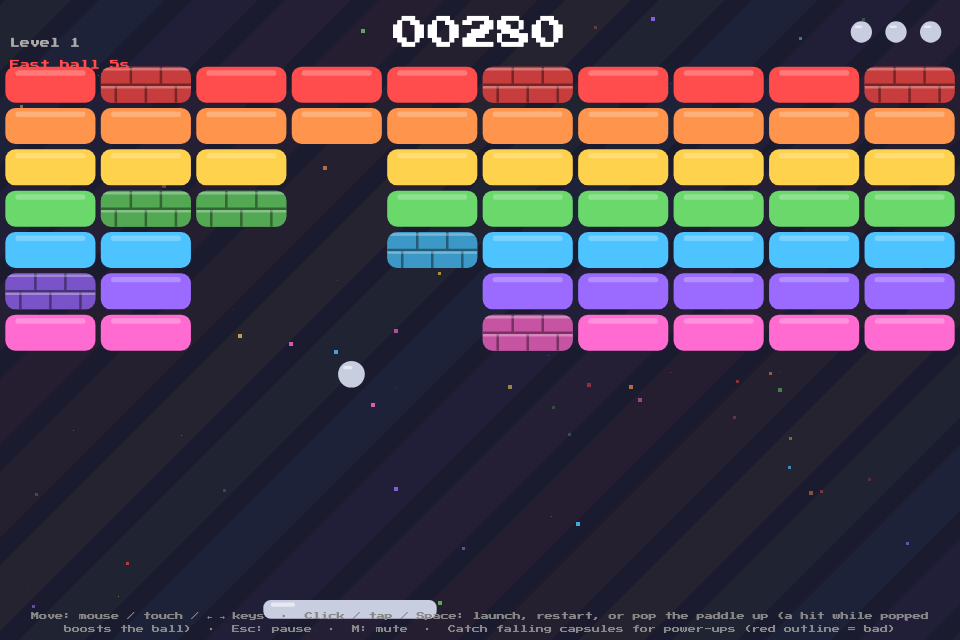
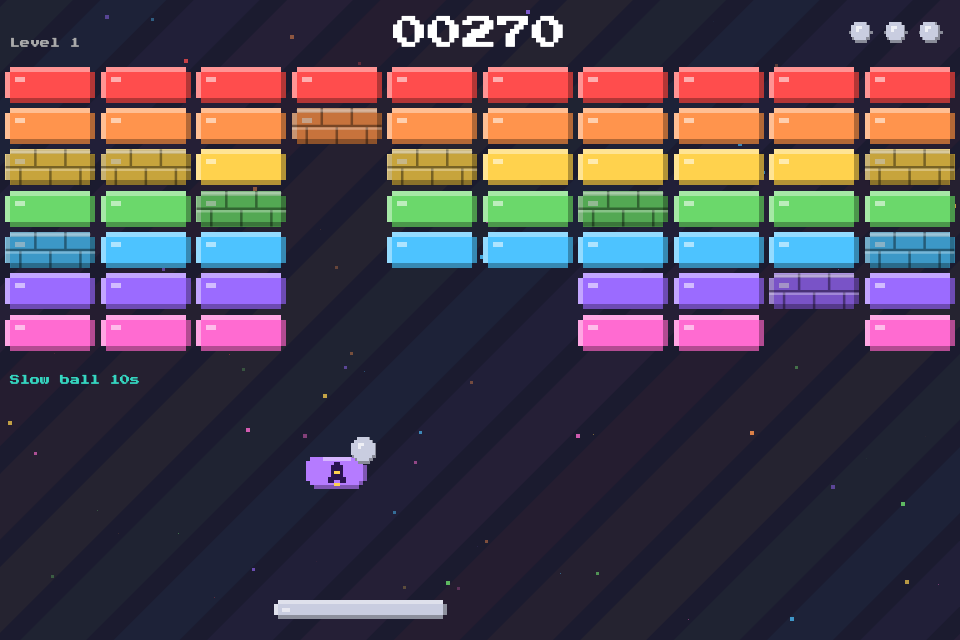
Draw bricks, paddle, pills and ball as 8-bit pixel shapes
Notched corners, hard pixel bevels and stepped discs replace the
anti-aliased rounded shapes. README screenshots regenerated.

diff --git a/src/main.js b/src/main.js
@@ -706,13 +706,15 @@ function drawIcon(icon, d, color) {
 
 function drawCapsule(d) {
   const p = POWERUPS[d.type];
-  ctx.beginPath(); ctx.roundRect(d.x - CAPSULE_W / 2, d.y - CAPSULE_H / 2, CAPSULE_W, CAPSULE_H, CAPSULE_H / 2);
-  if (p.bad) {
-    ctx.fillStyle = '#2a0f14'; ctx.fill();
-    ctx.lineWidth = 2; ctx.strokeStyle = p.color; ctx.stroke();
+  const cpx = Math.max(2, Math.round(CAPSULE_H / 9)), x = d.x - CAPSULE_W / 2, y = d.y - CAPSULE_H / 2;
+  if (p.bad) { // dark pill with a pixel outline
+    pixelPill(x, y, CAPSULE_W, CAPSULE_H, p.color, cpx);
+    pixelPill(x + cpx, y + cpx, CAPSULE_W - 2 * cpx, CAPSULE_H - 2 * cpx, '#2a0f14', cpx);
     drawIcon(p.icon, d, p.color);
   } else {
-    ctx.fillStyle = p.color; ctx.fill();
+    pixelPill(x, y, CAPSULE_W, CAPSULE_H, shade(p.color, -0.3), cpx); // dark rim, then the lit body on top
+    pixelPill(x, y, CAPSULE_W - cpx, CAPSULE_H - cpx, p.color, cpx);
+    ctx.fillStyle = shade(p.color, 0.45); ctx.fillRect(Math.round(x + CAPSULE_H / 2), Math.round(y), Math.round(CAPSULE_W - CAPSULE_H), cpx); // top highlight
     drawIcon(p.icon, d, p.iconColor || '#111');
   }
 }
@@ -744,11 +746,85 @@ function drawTitle() {
   if (titleT > landedAt && Math.floor(Date.now() / 500) % 2 === 0) text(START + ' to start', W / 2, H / 2 + size, Math.max(10, size * 0.28), '#ccc');
 }
 
+// --- 8-bit shapes: notched corners and a hard pixel bevel instead of anti-aliased curves ---
+function shade(hex, amt) { // amt > 0 mixes toward white, < 0 toward black
+  const n = parseInt(hex.slice(1), 16), t = amt < 0 ? 0 : 255, a = Math.abs(amt);
+  const c = [n >> 16, (n >> 8) & 255, n & 255].map(v => Math.round(v + (t - v) * a));
+  return `rgb(${c[0]},${c[1]},${c[2]})`;
+}
+
+// rectangle with the four corner pixels cut off (px = pixel size)
+function notchPath(x, y, w, h, px) {
+  ctx.beginPath();
+  ctx.moveTo(x + px, y); ctx.lineTo(x + w - px, y); ctx.lineTo(x + w - px, y + px); ctx.lineTo(x + w, y + px);
+  ctx.lineTo(x + w, y + h - px); ctx.lineTo(x + w - px, y + h - px); ctx.lineTo(x + w - px, y + h); ctx.lineTo(x + px, y + h);
+  ctx.lineTo(x + px, y + h - px); ctx.lineTo(x, y + h - px); ctx.lineTo(x, y + px); ctx.lineTo(x + px, y + px);
+  ctx.closePath();
+}
+
+// flat color body, light top/left edge, dark bottom/right edge, and a two-pixel glint
+function pixelBox(x, y, w, h, color, px) {
+  x = Math.round(x); y = Math.round(y); w = Math.round(w); h = Math.round(h);
+  ctx.fillStyle = color;
+  ctx.fillRect(x + px, y, w - 2 * px, h);
+  ctx.fillRect(x, y + px, w, h - 2 * px);
+  ctx.fillStyle = shade(color, -0.3);
+  ctx.fillRect(x + px, y + h - px, w - 2 * px, px);
+  ctx.fillRect(x + w - px, y + px, px, h - 2 * px);
+  ctx.fillStyle = shade(color, 0.4);
+  ctx.fillRect(x + px, y, w - 2 * px, px);
+  ctx.fillRect(x, y + px, px, h - 2 * px);
+  if (h >= px * 4 && w >= px * 6) {
+    ctx.fillStyle = 'rgba(255,255,255,0.55)';
+    ctx.fillRect(x + px * 2, y + px * 2, px * 2, px);
+  }
+}
+
+// stepped (pixelated) ellipse, filled row by row; ring = true draws only the outline
+function pixelDisc(cx, cy, rx, ry, color, px, ring = false) {
+  const n = Math.max(1, Math.round(ry * 2 / px)), top = Math.round(cy - n * px / 2);
+  const widths = [];
+  for (let i = 0; i < n; i++) {
+    const dy = (i + 0.5 - n / 2) * px;
+    widths.push(Math.round(rx * Math.sqrt(Math.max(0, 1 - (dy / (n * px / 2)) ** 2)) / px) * px);
+  }
+  ctx.fillStyle = color;
+  widths.forEach((w, i) => {
+    if (w <= 0) return;
+    const y = top + i * px, x = Math.round(cx);
+    let inner = 0;
+    if (ring && i > 0 && i < n - 1) inner = Math.min(widths[i - 1], widths[i + 1], w - px);
+    if (!ring || inner <= 0) { ctx.fillRect(x - w, y, w * 2, px); return; }
+    ctx.fillRect(x - w, y, w - inner, px); ctx.fillRect(x + inner, y, w - inner, px);
+  });
+}
+
+// the ball: dark disc, a lit disc nudged up-left so a dark crescent is left bottom-right, and a pixel glint
+function pixelBall(cx, cy, rx, ry, color, px) {
+  pixelDisc(cx, cy, rx, ry, shade(color, -0.32), px);
+  pixelDisc(cx - px / 2, cy - px / 2, rx - px / 2, ry - px / 2, color, px);
+  ctx.fillStyle = 'rgba(255,255,255,0.7)';
+  const gx = Math.round(cx - rx * 0.5), gy = Math.round(cy - ry * 0.55);
+  ctx.fillRect(gx, gy, px * 2, px); ctx.fillRect(gx, gy + px, px, px);
+}
+
+// pill with a stepped (pixelated) end cap, drawn row by row
+function pixelPill(x, y, w, h, color, px) {
+  x = Math.round(x); y = Math.round(y);
+  const rows = Math.round(h / px), cap = Math.floor(rows / 2);
+  for (let i = 0; i < rows; i++) {
+    const d = i < cap ? cap - i : i >= rows - cap ? i - (rows - cap - 1) : 0; // rows from the middle
+    const inset = d ? Math.round(cap - Math.sqrt(Math.max(0, cap * cap - (d - 0.5) * (d - 0.5)))) * px : 0;
+    ctx.fillStyle = color;
+    ctx.fillRect(x + inset, y + i * px, Math.round(w) - inset * 2, px);
+  }
+}
+
 // two-hit brick: darker, with mortar lines like a brick wall, and cracks once it has taken a hit
-function drawToughBrick(b, rad) {
+function drawToughBrick(b, px) {
   const lw = Math.max(1, BH * 0.07);
   ctx.save();
-  ctx.beginPath(); ctx.roundRect(b.x, b.y, BW, BH, rad); ctx.clip();
+  notchPath(b.x, b.y, BW, BH, px); ctx.clip();
   ctx.fillStyle = 'rgba(0,0,0,0.22)'; ctx.fillRect(b.x, b.y, BW, BH);
   ctx.strokeStyle = 'rgba(0,0,0,0.4)'; ctx.lineWidth = lw;
   ctx.beginPath();
@@ -788,14 +864,9 @@ function drawScene() {
 
   for (const b of bricks) {
     if (!b.alive) continue;
-    const rad = BH * 0.28;
-    ctx.fillStyle = b.color;
-    ctx.beginPath(); ctx.roundRect(b.x, b.y, BW, BH, rad); ctx.fill();
-    if (b.maxHp > 1) drawToughBrick(b, rad);
-    else {
-      ctx.fillStyle = 'rgba(255,255,255,0.25)';
-      ctx.beginPath(); ctx.roundRect(b.x + rad, b.y + BH * 0.1, BW - rad * 2, BH * 0.15, BH * 0.07); ctx.fill();
-    }
+    const bpx = Math.max(2, Math.round(BH / 8));
+    pixelBox(b.x, b.y, BW, BH, b.color, bpx);
+    if (b.maxHp > 1) drawToughBrick(b, bpx);
   }
 
   for (const d of drops) drawCapsule(d);
@@ -809,12 +880,9 @@ function drawScene() {
     }
   }
 
-  ctx.fillStyle = narrowT > 0 ? '#ff8a8a' : wideT > 0 ? '#ffe28a' : stickyT > 0 ? '#d6ec7a' : '#c9cde0';
+  const padColor = narrowT > 0 ? '#ff8a8a' : wideT > 0 ? '#ffe28a' : stickyT > 0 ? '#d6ec7a' : '#c9cde0';
   const padY = paddle.y - LIFT * paddle.punch;
-  const ph = paddle.h, pw = paddle.w, px = paddle.x, py = padY, pad = ph * 0.4;
-  ctx.beginPath(); ctx.roundRect(px, py, pw, ph, pad); ctx.fill();
-  ctx.fillStyle = 'rgba(255,255,255,0.55)'; // short rounded glint, same shape as the ball's
-  ctx.beginPath(); ctx.roundRect(px + pad, py + ph * 0.14, paddle.h * 1.3, ph * 0.22, ph * 0.11); ctx.fill();
+  pixelBox(paddle.x, padY, paddle.w, paddle.h, padColor, Math.max(2, Math.round(paddle.h / 5)));
 
   if (missileT > 0) { // armed: little launchers on the paddle ends
     ctx.fillStyle = '#b57bff';
@@ -845,14 +913,11 @@ function drawScene() {
   }
 
   for (const ball of balls) {
-    ctx.fillStyle = ball.fire ? '#ff5a1f' : ball.boost > 1 ? '#ffd24d' : '#c9cde0';
+    const ballColor = ball.fire ? '#ff5a1f' : ball.boost > 1 ? '#ffd24d' : '#c9cde0';
     // flatten along the bounce axis and bulge across it
     const along = ball.r * (1 - 0.3 * ball.sq), across = ball.r * (1 + 0.2 * ball.sq);
     const rx = ball.sqAxis === 'x' ? along : across, ry = ball.sqAxis === 'x' ? across : along;
-    ctx.beginPath(); ctx.ellipse(ball.x, ball.y, rx, ry, 0, 0, Math.PI * 2); ctx.fill();
-    ctx.shadowBlur = 0;
-    ctx.fillStyle = 'rgba(255,255,255,0.55)'; // short rounded glint at the upper left, same shape as the paddle's
-    ctx.beginPath(); ctx.roundRect(ball.x - rx * 0.62, ball.y - ry * 0.62, rx * 0.7, ry * 0.24, ball.r * 0.12); ctx.fill();
+    pixelBall(ball.x, ball.y, rx, ry, ballColor, Math.max(2, Math.round(ball.r / 4)));
   }
 
   text(String(score).padStart(5, '0'), W / 2, TOP * 0.76, 26 * scale, '#fff'); // centered above the bricks
@@ -861,14 +926,9 @@ function drawScene() {
   const lr = 8 * scale;
   for (let i = 0; i < Math.max(3, lives); i++) {
     const lx = W - 22 * scale - i * 26 * scale, ly = 24 * scale;
-    ctx.beginPath(); ctx.arc(lx, ly, lr, 0, Math.PI * 2);
-    if (i < lives) {
-      ctx.fillStyle = '#c9cde0'; ctx.fill();
-      ctx.fillStyle = 'rgba(255,255,255,0.55)';
-      ctx.beginPath(); ctx.roundRect(lx - lr * 0.62, ly - lr * 0.62, lr * 0.7, lr * 0.24, lr * 0.12); ctx.fill();
-    } else {
-      ctx.strokeStyle = 'rgba(201,205,224,0.3)'; ctx.lineWidth = Math.max(1, 1.5 * scale); ctx.stroke();
-    }
+    const lpx = Math.max(2, Math.round(lr / 4));
+    if (i < lives) pixelBall(lx, ly, lr, lr, '#c9cde0', lpx);
+    else pixelDisc(lx, ly, lr, lr, 'rgba(201,205,224,0.3)', lpx, true);
   }
 
   // active timed effects, just under the bricks
